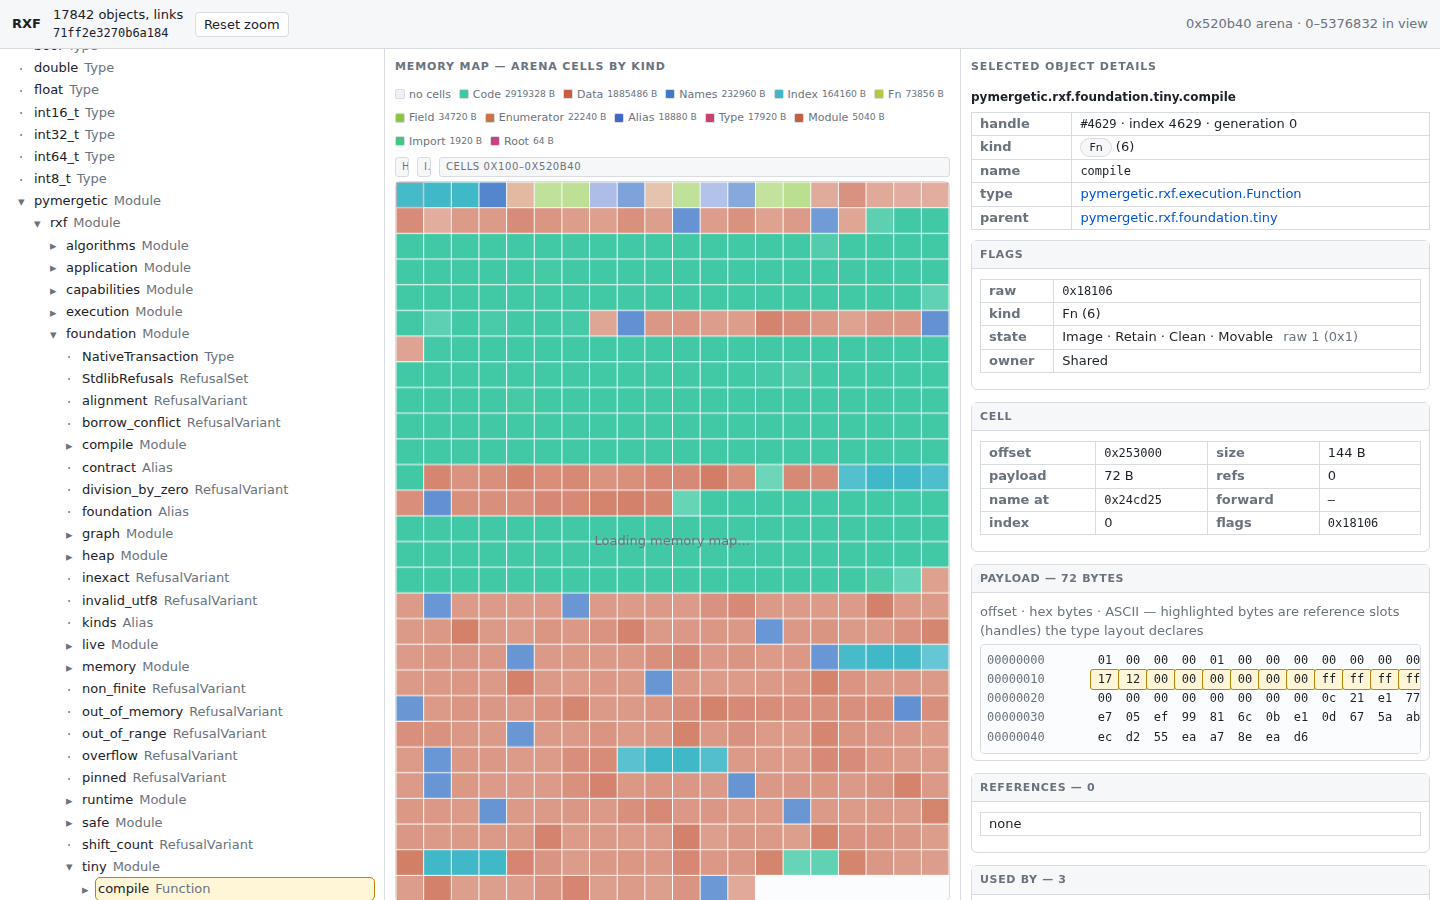
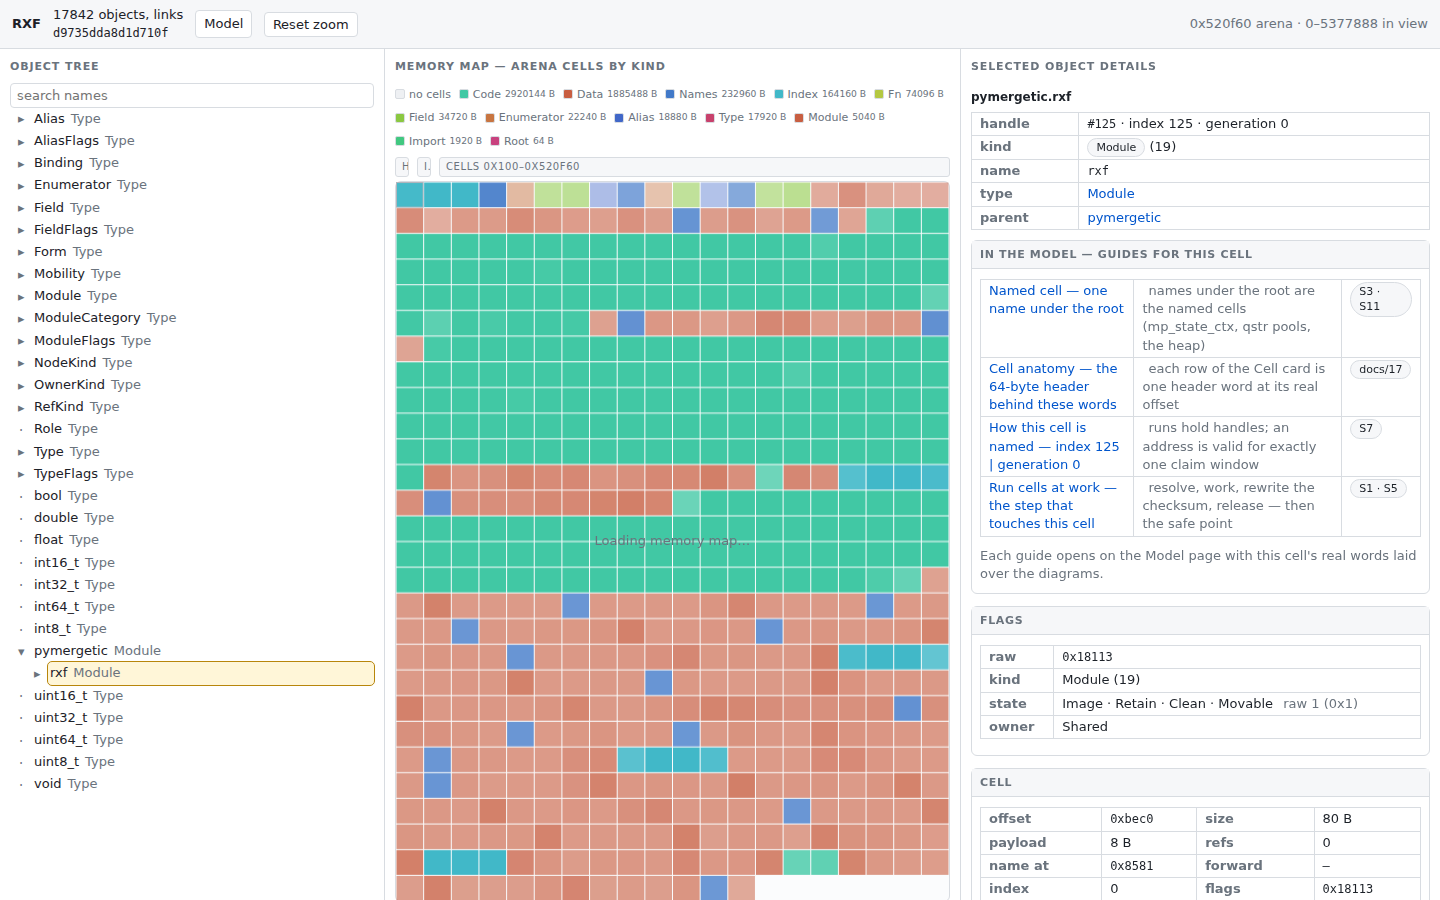
docs: refresh README + docs/README to the committed state with real screens
Four real screenshots at 1440x900 captured headless against rxf server browse:
model-overview.png (top of /model: title, six-part contents) and
model-anatomy.png (Figure 1 cell anatomy with the live overlay of a real cell's
10 header words) are new; inspector-overview.png and inspector-detail.png are
refreshed to the current inspector (memory map + In-the-model card).

Content pass: status paragraph (execution policy docs/20, 58/58 byte-identical
composed programs, /model page), docs/20 in the architecture list, a Syntax
highlighting section (editors/rxf-highlight, .rxfs/.rxfd, one meaning table),
the model section (six SVG figures, live header overlay, 41 anti-drift pins),
inspector text for the memory map and cell detail, the serve/live seam
paragraph, and the Layout list naming console/, live/, server/.

The seam paragraph carries the live/cli finding: whoever runs the image
registers its world (serve / the host of rxf live's channel); rxf live's own
commands only speak frames and are the frames face of the same link.

The 3D world section stays a marked placeholder (WORLD-SCREENS-PENDING in both
files) until the world's visual acceptance; the teaser text is honest about the
rework. Link walk over both files: 0 broken relative links.

diff --git a/README.md b/README.md
@@ -24,12 +24,15 @@ generic codec); deltas as XML ([pugixml](https://pugixml.org)) with atomic repla
 and SHA-256 digests; a **live layer** that lets a running image be read and edited from outside
 (CRC-framed channel, physical delta, compaction and relink in the image, safe points and break,
 UART, shared-memory and pty providers, `rxf live`); a compiler leaf for every program (machine code on
-three machines); the **self-editing path** ([19](docs/19-SELF-EDITING-PATH.md)) under construction: the running
+three machines); the **execution policy** ([20](docs/20-EXECUTION-POLICY.md)): suspension is a data
+property, proven by the host SMP harness (`tests/host/`); the **self-editing path** ([19](docs/19-SELF-EDITING-PATH.md)) under construction: the running
 image compiles its own front end and replaces the compiler from a delta (the fixpoint run, proven on
 x86-64, AArch64, and wasm32), and the in-image composer writes program words byte-identical to the host
-composer for 52 of its 53 graphs; an image as a **module tree**, one XML file per module (`starter/`); the
-`rxf` command line (Python Fire, command path = module path); a read-only inspector with an arena
-memory map and cell introspection (see below); and the
+composer for all 58 programs of the corpus (53 graphs, 5 expressions); an image as a **module tree**, one XML file per module (`starter/`); the
+`rxf` command line (Python Fire, command path = module path); syntax highlighting for the two text
+forms (`.rxfs`, `.rxfd`) generated from one meaning table (`editors/rxf-highlight`); a read-only
+inspector with an arena memory map, cell introspection, and a **model page** that documents and
+visualizes the run-cell machine (see below); and the
 build (CMake, scikit-build-core, nanobind 3, platform wheels through cibuildwheel). The compiler,
 native Code binding, and executable builders of the former v5 Python stack are not in the tree
 (its last state is the git tag `legacy-v5-python`) and are still to be rebuilt on the core
@@ -79,6 +82,7 @@ Read in order:
 13. [Path to a self-contained operating system](docs/17-OPERATING-SYSTEM-PATH.md)
 14. [The native snippets: a multi-platform binary](docs/18-NATIVE-SNIPPETS.md)
 15. [The way to a self-editing image](docs/19-SELF-EDITING-PATH.md)
+16. [The execution policy: suspension is a data property](docs/20-EXECUTION-POLICY.md)
 
 These documents specify RXF independently of any runtime provider. The optional Metal binding
 is described separately in [`docs/integrations/metal.md`](docs/integrations/metal.md).
@@ -100,8 +104,8 @@ An image is one arena: a 192-byte header, an index directory, and a cell stream.
 
 So `.rxf` is always source text and `.rxfb` is always an image; they differ by one letter. The compiled form of a `.rxf` program is **not a file**: it is bytes that live inside an RXFB 6 image (for example `tiny.compile` in `starter/…/foundation/tiny.xml`), never a `.rxf` file. The front end of the language (`native/front`) reads `.rxf` source and writes those program words inside
 a running image — the image compiles its own front end and the successor replaces it from a delta;
-`rxfc.py` is the same compiler on the host. The composer is moving in beside it (`native/compose`, 52 of
-53 graphs byte-identical with `tools/native/compose.py`), and `tools/native/rximport.py` lowers C through
+`rxfc.py` is the same compiler on the host. The composer is moving in beside it (`native/compose`, 58 of its
+58 programs byte-identical with `tools/native/compose.py`), and `tools/native/rximport.py` lowers C through
 LLVM IR onto the same semantic graphs (C++ and Rust experimentally).
 
 ## The module tree
@@ -124,6 +128,22 @@ starter/pymergetic/rxf/roles/call.xml       module pymergetic.rxf.roles.call
 ```
 
 Everything the format says itself is in the `rxf` XML namespace; an edge is said once (a field is the reference, the children are the list, the other direction is computed); roles are objects named by path; order among siblings is `rxf:index`; the n-th element of a list is `name[n]`; a word is the path of its enumerator (`kind="RefKind.Data"`, `layer="@kinds.FunctionLayer.Library"`), never a bare word or a number; a module may shorten long paths with aliases (`@call.Callee`); Types, enumerators, and roles are CamelCase, modules and fields snake_case. See [deltas and their XML form](docs/15-DELTAS-AND-XML.md).
+
+## Syntax highlighting
+
+`editors/rxf-highlight/` is a dependency-free Cursor/VS Code extension with TextMate grammars for
+the two text forms under their final names: `.rxfs`, the program language `tools/native/rxfc.py`
+compiles, and `.rxfd`, the delta documents. The grammars are generated bytes, never edited by hand:
+one meaning table (`tools/highlight/meaning.json`) holds what every leaf of `native/graph.h` is,
+what every `.rxfs` operator lowers to (only 8 are 1:1; the rest desugar, and the grammar marks the
+rewritten form), and the words and reference shapes of `.rxfd`. `tests/test_highlight.py` pins the
+table back to `graph.h`, `rxfc.py`, and `words.rxf`, and the checked-in grammars are proven to be
+the generated ones (`python3 -m tools.highlight.grammar_gen --check`).
+
+```sh
+ln -s "$PWD/editors/rxf-highlight" ~/.cursor/extensions/pymergetic.rxf-highlight-0.1.0   # Cursor
+ln -s "$PWD/editors/rxf-highlight" ~/.vscode/extensions/pymergetic.rxf-highlight-0.1.0   # VS Code
+```
 
 ## Command line
 
@@ -168,17 +188,58 @@ what the image has installed. `--link` is where the running image is: `shm:name`
 (`pymergetic.rxf.console.world.register`), and the console drives compile and install over the
 live channel.
 
+Whoever runs the image registers its world over the channel while it runs it: the serve instance
+behind the inspector (what `rxf serve` runs — `server/live.Session` holds the registration for the
+life of the app) and the host of `rxf live`'s channel (the harness or rig that runs the image —
+`rxf live`'s own commands only speak frames) register what they run in the one registry
+(`pymergetic.rxf.console.world`), and `rxf console --link=…` attaches to the running image through
+it. One link has one runner: a second world at the same link is refused (`WorldIsRegistered`), not
+stolen, and shutdown — or a runner that ends without closing — takes the registration with it.
+`rxf live` is the frames face of the same link — its commands work over any wire (and on the
+channel of a runner registered here), while compile and install need the runner's machine.
+
 ### Inspector
 
 `rxf server browse` serves the read-only inspector: the object tree on the left, the arena
 as a memory map in the middle (cells colored by kind, fill by payload occupancy — click
 selects, double-click zooms, `Reset zoom` returns), and full cell introspection on the
-right: decoded kind/state/owner flags, the cell fields, a payload hex dump, every
-reference row with its role and target, and who points at the object.
+right: decoded kind/state/owner flags, the cell fields, a payload hex dump with
+type-declared reference slots highlighted, every reference row with its role and target,
+and who points at the object. Every detail opens with an **In the model** card: the
+sections of the model page that explain that cell's face and its words, each deep-linking
+to the figure.
 
-![The inspector: object tree, arena memory map, and object details](docs/images/inspector-overview.png)
+![The inspector: object tree, arena memory map, and the details of one cell](docs/images/inspector-overview.png)
 
-![The details pane: payload hex dump, references, and used-by links](docs/images/inspector-detail.png)
+![The details pane: the In the model guides over the flags and the cell words](docs/images/inspector-detail.png)
+
+### The model: the run-cell machine
+
+`/model` (the **Model** button) is the in-tool documentation of the run-cell machine and
+the object model. Six sections — the substrate and the 64-byte cell anatomy, the two
+object faces (handles and REPR A), the step lifecycle, suspension, migration and
+compaction, the MicroPython seam, and what the proof pins — each carry an accessible
+inline SVG figure: the anatomy with its real offsets, the run payload's three regions, the
+step loop, the handle/ABA story, the compaction slide with `C_FORWARD` and the `0xA5`
+poison, and the pending protocol. Every fact cites its section of
+[the execution policy](docs/20-EXECUTION-POLICY.md) (S1–S11), and the numbers in the pin
+chips are read out of the C in `tests/host/` and `core/ground.h`: 41 documented constants
+are pinned by `tests/test_model_doc.py`, so a constant that moves in the C fails the test
+until this page is updated.
+
+The page is live in both directions: follow a cell's **In the model** link in the
+inspector (or append `?path=pymergetic.rxf` to the page's address) and that cell's real
+header words are laid over the anatomy figure, each row naming the live view field the
+word shows up in — with a link back to the cell in the inspector.
+
+![The model: contents, the six parts, and the cell anatomy figure](docs/images/model-overview.png)
+
+![The anatomy figure with a live cell's real header words laid over it](docs/images/model-anatomy.png)
+
+## The 3D world
+
+A 3D world view of the running image is being built on these same seams; its screenshots land here.
+<!-- WORLD-SCREENS-PENDING -->
 
 ## Layout
 
@@ -188,7 +249,9 @@ src/pymergetic/rxf/
   core/                        the compiled package pymergetic.rxf.core
     arena/ object/ hash/ meta/ delta/ xml/ tree/    C++ modules, each with bindings.cpp and, where it has a CLI, cli.py
     *.pyi                      generated stubs, one per Python submodule
-  server/                      the inspector
+  console/                     the console on a running image (`rxf console`) and the world seam
+  live/                        the live channel: client, front end, and the commands of `rxf live`
+  server/                      the inspector and the model page
 ```
 
 ## Develop

diff --git a/docs/README.md b/docs/README.md
@@ -24,12 +24,15 @@ generic codec); deltas as XML ([pugixml](https://pugixml.org)) with atomic repla
 and SHA-256 digests; a **live layer** that lets a running image be read and edited from outside
 (CRC-framed channel, physical delta, compaction and relink in the image, safe points and break,
 UART, shared-memory and pty providers, `rxf live`); a compiler leaf for every program (machine code on
-three machines); the **self-editing path** ([19](19-SELF-EDITING-PATH.md)) under construction: the running
+three machines); the **execution policy** ([20](20-EXECUTION-POLICY.md)): suspension is a data
+property, proven by the host SMP harness (`tests/host/`); the **self-editing path** ([19](19-SELF-EDITING-PATH.md)) under construction: the running
 image compiles its own front end and replaces the compiler from a delta (the fixpoint run, proven on
 x86-64, AArch64, and wasm32), and the in-image composer writes program words byte-identical to the host
-composer for 52 of its 53 graphs; an image as a **module tree**, one XML file per module (`starter/`); the
-`rxf` command line (Python Fire, command path = module path); a read-only inspector with an arena
-memory map and cell introspection (see below); and the
+composer for all 58 programs of the corpus (53 graphs, 5 expressions); an image as a **module tree**, one XML file per module (`starter/`); the
+`rxf` command line (Python Fire, command path = module path); syntax highlighting for the two text
+forms (`.rxfs`, `.rxfd`) generated from one meaning table (`editors/rxf-highlight`); a read-only
+inspector with an arena memory map, cell introspection, and a **model page** that documents and
+visualizes the run-cell machine (see below); and the
 build (CMake, scikit-build-core, nanobind 3, platform wheels through cibuildwheel). The compiler,
 native Code binding, and executable builders of the former v5 Python stack are not in the tree
 (its last state is the git tag `legacy-v5-python`) and are still to be rebuilt on the core
@@ -109,6 +112,22 @@ starter/pymergetic/rxf/roles/call.xml       module pymergetic.rxf.roles.call
 
 Everything the format says itself is in the `rxf` XML namespace; an edge is said once (a field is the reference, the children are the list, the other direction is computed); roles are objects named by path; order among siblings is `rxf:index`; the n-th element of a list is `name[n]`; a word is the path of its enumerator (`kind="RefKind.Data"`, `layer="@kinds.FunctionLayer.Library"`), never a bare word or a number; a module may shorten long paths with aliases (`@call.Callee`); Types, enumerators, and roles are CamelCase, modules and fields snake_case. See [deltas and their XML form](15-DELTAS-AND-XML.md).
 
+## Syntax highlighting
+
+`editors/rxf-highlight/` is a dependency-free Cursor/VS Code extension with TextMate grammars for
+the two text forms under their final names: `.rxfs`, the program language `tools/native/rxfc.py`
+compiles, and `.rxfd`, the delta documents. The grammars are generated bytes, never edited by hand:
+one meaning table (`tools/highlight/meaning.json`) holds what every leaf of `native/graph.h` is,
+what every `.rxfs` operator lowers to (only 8 are 1:1; the rest desugar, and the grammar marks the
+rewritten form), and the words and reference shapes of `.rxfd`. `tests/test_highlight.py` pins the
+table back to `graph.h`, `rxfc.py`, and `words.rxf`, and the checked-in grammars are proven to be
+the generated ones (`python3 -m tools.highlight.grammar_gen --check`).
+
+```sh
+ln -s "$PWD/editors/rxf-highlight" ~/.cursor/extensions/pymergetic.rxf-highlight-0.1.0   # Cursor
+ln -s "$PWD/editors/rxf-highlight" ~/.vscode/extensions/pymergetic.rxf-highlight-0.1.0   # VS Code
+```
+
 ## Command line
 
 `rxf` is one Python Fire entry point. A command lives next to what it operates on and its path is the module path: `core/object/cli.py` defines `rxf core object ...`, `server/cli.py` defines `rxf server ...`. A new `cli.py` is a new command group. `rxf` alone lists every command.
@@ -152,17 +171,58 @@ what the image has installed. `--link` is where the running image is: `shm:name`
 (`pymergetic.rxf.console.world.register`), and the console drives compile and install over the
 live channel.
 
+Whoever runs the image registers its world over the channel while it runs it: the serve instance
+behind the inspector (what `rxf serve` runs — `server/live.Session` holds the registration for the
+life of the app) and the host of `rxf live`'s channel (the harness or rig that runs the image —
+`rxf live`'s own commands only speak frames) register what they run in the one registry
+(`pymergetic.rxf.console.world`), and `rxf console --link=…` attaches to the running image through
+it. One link has one runner: a second world at the same link is refused (`WorldIsRegistered`), not
+stolen, and shutdown — or a runner that ends without closing — takes the registration with it.
+`rxf live` is the frames face of the same link — its commands work over any wire (and on the
+channel of a runner registered here), while compile and install need the runner's machine.
+
 ### Inspector
 
 `rxf server browse` serves the read-only inspector: the object tree on the left, the arena
 as a memory map in the middle (cells colored by kind, fill by payload occupancy — click
 selects, double-click zooms, `Reset zoom` returns), and full cell introspection on the
-right: decoded kind/state/owner flags, the cell fields, a payload hex dump, every
-reference row with its role and target, and who points at the object.
+right: decoded kind/state/owner flags, the cell fields, a payload hex dump with
+type-declared reference slots highlighted, every reference row with its role and target,
+and who points at the object. Every detail opens with an **In the model** card: the
+sections of the model page that explain that cell's face and its words, each deep-linking
+to the figure.
 
-![The inspector: object tree, arena memory map, and object details](images/inspector-overview.png)
+![The inspector: object tree, arena memory map, and the details of one cell](images/inspector-overview.png)
 
-![The details pane: payload hex dump, references, and used-by links](images/inspector-detail.png)
+![The details pane: the In the model guides over the flags and the cell words](images/inspector-detail.png)
+
+### The model: the run-cell machine
+
+`/model` (the **Model** button) is the in-tool documentation of the run-cell machine and
+the object model. Six sections — the substrate and the 64-byte cell anatomy, the two
+object faces (handles and REPR A), the step lifecycle, suspension, migration and
+compaction, the MicroPython seam, and what the proof pins — each carry an accessible
+inline SVG figure: the anatomy with its real offsets, the run payload's three regions, the
+step loop, the handle/ABA story, the compaction slide with `C_FORWARD` and the `0xA5`
+poison, and the pending protocol. Every fact cites its section of
+[the execution policy](20-EXECUTION-POLICY.md) (S1–S11), and the numbers in the pin
+chips are read out of the C in `tests/host/` and `core/ground.h`: 41 documented constants
+are pinned by `tests/test_model_doc.py`, so a constant that moves in the C fails the test
+until this page is updated.
+
+The page is live in both directions: follow a cell's **In the model** link in the
+inspector (or append `?path=pymergetic.rxf` to the page's address) and that cell's real
+header words are laid over the anatomy figure, each row naming the live view field the
+word shows up in — with a link back to the cell in the inspector.
+
+![The model: contents, the six parts, and the cell anatomy figure](images/model-overview.png)
+
+![The anatomy figure with a live cell's real header words laid over it](images/model-anatomy.png)
+
+## The 3D world
+
+A 3D world view of the running image is being built on these same seams; its screenshots land here.
+<!-- WORLD-SCREENS-PENDING -->
 
 ## Layout
 
@@ -172,7 +232,9 @@ src/pymergetic/rxf/
   core/                        the compiled package pymergetic.rxf.core
     arena/ object/ hash/ meta/ delta/ xml/ tree/    C++ modules, each with bindings.cpp and, where it has a CLI, cli.py
     *.pyi                      generated stubs, one per Python submodule
-  server/                      the inspector
+  console/                     the console on a running image (`rxf console`) and the world seam
+  live/                        the live channel: client, front end, and the commands of `rxf live`
+  server/                      the inspector and the model page
 ```
 
 ## Develop
